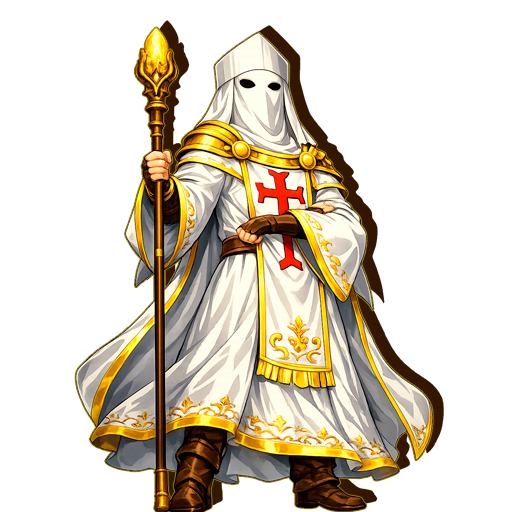
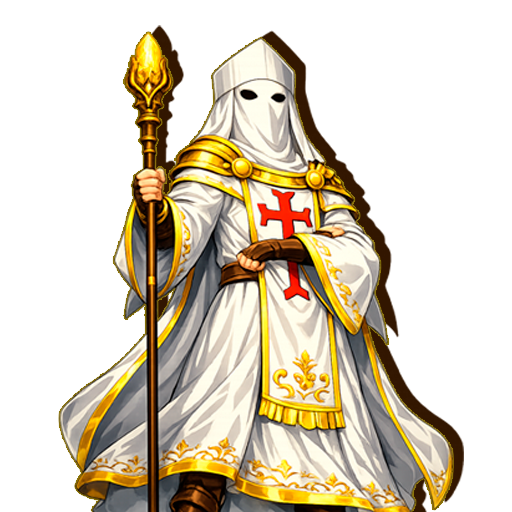
PRIEST ANIMATION!!

diff --git a/hexochess/src/scenes/BattleScene.js b/hexochess/src/scenes/BattleScene.js
@@ -9,6 +9,7 @@ import {
   atlasIdleFrame,
   atlasDeadFrame,
   atlasIdleAttackFrame,
+  atlasPreparedAttackRecoveryFrame,
   atlasSkillFrame,
   atlasWalkFirstFrame,
   atlasWalkFallbackFrame,
@@ -289,6 +290,18 @@ const UNIT_MOVE_VFX_DEFS = [
     repeat: 1,
     depthOffset: 0.18,
   },
+  {
+    key: 'priest_move',
+    unitType: 'Priest',
+    atlasKey: 'priest_move_vfx_atlas',
+    atlasPath: '/assets/units/human/priest/atlas/priest_vfx_move_atlas',
+    animKey: 'priest_move_vfx',
+    firstFrame: 'walk/1.png',
+    frameRegex: /^walk\/\d+\.png$/,
+    frameRate: 10,
+    repeat: 1,
+    depthOffset: 0.18,
+  },
 ];
 
 const UNIT_MOVE_VFX_DEF_BY_TYPE = Object.fromEntries(
@@ -299,8 +312,8 @@ const HEAL_TARGET_VFX_DEF = {
   atlasKey: 'heal_vfx_atlas',
   atlasPath: '/assets/vfx/heal/heal_vfx_atlas',
   animKey: 'heal_target_vfx',
-  firstFrame: 'heal2/HealingQuick2_01.png',
-  frameRegex: /^heal2\/HealingQuick2_\d+\.png$/,
+  firstFrame: 'psd_anim/heal_01.png',
+  frameRegex: /^psd_anim\/heal_\d+\.png$/,
   frameRate: 24,
   depthOffset: 0.2,
 };
@@ -3016,9 +3029,10 @@ export default class BattleScene extends Phaser.Scene {
           const nowMs = Number(this.time?.now ?? 0);
           const hitDelayMs = Math.max(0, Number(ev.preparedAttackHitDelayMs ?? attackerRuntime._preparedAttackHitDelayMs ?? 0));
           const attackHoldMs = Math.max(0, Number(ev.preparedAttackHoldMs ?? attackerRuntime._preparedAttackHoldMs ?? 0));
+          const recoveryDelayMs = Math.max(0, Number(preparedAttackCfg?.recoveryDelayMs ?? 0));
           runtime._preparedAttackCycleUntilMs = nowMs + Math.max(0, Number(ev.preparedAttackIntervalMs ?? attackerRuntime._preparedAttackIntervalMs ?? 0));
           runtime._preparedAttackPoseUntilMs = nowMs + hitDelayMs;
-          runtime._preparedAttackIdleAttack2FromMs = nowMs + hitDelayMs + attackHoldMs;
+          runtime._preparedAttackIdleAttack2FromMs = nowMs + hitDelayMs + attackHoldMs + recoveryDelayMs;
           runtime._preparedAttackIdleAttack2Active = false;
           runtime._preparedAttackFrameUntilMs = 0;
         }
@@ -3134,7 +3148,12 @@ export default class BattleScene extends Phaser.Scene {
     if (ev.type === 'heal') {
       const attacker = byId.get(ev.attackerId);
       const target = byId.get(ev.targetId);
-      if (attacker && getPreparedAttackConfig(attacker.type) && !Boolean(ev.skipPreparedAttackVisual)) {
+      if (
+        attacker &&
+        getPreparedAttackConfig(attacker.type) &&
+        String(attacker.type ?? '') !== 'Priest' &&
+        !Boolean(ev.skipPreparedAttackVisual)
+      ) {
         const vu = this.unitSys?.findUnit?.(attacker.id);
         const attackerRuntime = this.attachUnitRuntime(vu, attacker.id);
         if (vu) {
@@ -4047,11 +4066,15 @@ export default class BattleScene extends Phaser.Scene {
       ? atlasIdleAttackFrame(atlasCfg)
       : (texture?.has?.(atlasIdleFrame(atlasCfg)) ? atlasIdleFrame(atlasCfg) : null);
     const attackFrame = atlasAttackFallbackFrame(atlasCfg);
+    const recoveryFrame = texture?.has?.(atlasPreparedAttackRecoveryFrame(atlasCfg))
+      ? atlasPreparedAttackRecoveryFrame(atlasCfg)
+      : idleAttackFrame;
     if (!idleAttackFrame || !texture?.has?.(attackFrame)) return null;
     return {
       atlasCfg,
       idleAttackFrame,
       attackFrame,
+      recoveryFrame,
       config: preparedCfg,
     };
   }
@@ -4131,7 +4154,7 @@ export default class BattleScene extends Phaser.Scene {
 
       const targetFrame = attackActive
         ? preparedAttackFrames.attackFrame
-        : preparedAttackFrames.idleAttackFrame;
+        : (idleAttack2Active ? preparedAttackFrames.recoveryFrame : preparedAttackFrames.idleAttackFrame);
       runtime._preparedAttackIdleAttack2Active = idleAttack2Active;
       this.applyUnitStaticArtFrame(vu, preparedAttackFrames.atlasCfg.atlasKey, targetFrame);
     }
@@ -5287,6 +5310,8 @@ export default class BattleScene extends Phaser.Scene {
   syncBattleVisualFrame(nowMs) {
     this.syncTimedBattleVisualTransitions?.(nowMs);
     this.refreshPreparedAttackPoseFrames?.(nowMs);
+    const byId = new Map((this.unitSys?.state?.units ?? []).map((vu) => [vu.id, vu]));
+    this.syncVisualUnitAnimationState?.(this.battleState?.phase ?? 'prep', byId);
     this.syncUnitFrameBoundVfxState?.(nowMs);
   }
 
@@ -5349,7 +5374,7 @@ export default class BattleScene extends Phaser.Scene {
         vu._artFacingMirrored = baseMirrored;
         vu.art.setFlipX(baseMirrored);
         if (vu.artOverlay?.active) vu.artOverlay.setFlipX(baseMirrored);
-        if (result) {
+        if ((phase !== 'battle') || result) {
           runtime._skillFrameUntilMs = 0;
           runtime._counterRecoveryUntilMs = 0;
           runtime._damageFrameUntilMs = 0;
@@ -5479,6 +5504,7 @@ export default class BattleScene extends Phaser.Scene {
         !result &&
         (u.zone === 'board') &&
         !u.dead &&
+        !preparedAttackFrameActive &&
         !wantWalk &&
         !wantKnightChargeMove &&
         !wantCast &&
@@ -5502,13 +5528,17 @@ export default class BattleScene extends Phaser.Scene {
       if (wantsPreparedAttackPose) {
         const targetFrame = preparedAttackFrameActive
           ? preparedAttackFrames.attackFrame
-          : preparedAttackFrames.idleAttackFrame;
+          : (preparedAttackIdleAttack2Active ? preparedAttackFrames.recoveryFrame : preparedAttackFrames.idleAttackFrame);
         runtime._staticWalkFrameActive = false;
         runtime._preparedAttackIdleAttack2Active = preparedAttackIdleAttack2Active;
         this.applyUnitStaticArtFrame(vu, preparedAttackFrames.atlasCfg.atlasKey, targetFrame);
         continue;
       }
       const isStaticWalkFrameShown = !!(staticWalkFrame && vu.art?.frame?.name === staticWalkFrame);
+      const isDamageFrameShown = !!(
+        damageFrameInfo &&
+        vu.art?.frame?.name === damageFrameInfo.damageFrame
+      );
       const wantStaticWalkFrame = wantWalk && !wantKnightChargeMove && !wantAttack && !wantCast;
       if (wantStaticWalkFrame && atlasCfgForFrames && vu.art?.active) {
         runtime._staticWalkFrameActive = true;
@@ -5541,7 +5571,15 @@ export default class BattleScene extends Phaser.Scene {
         !forceReplayCast &&
         !forceReplayAttack &&
         vu.art.anims?.getName?.() === animKey &&
-        !(animKey === animDef.idle && (isStaticWalkFrameShown || isPreparedAttackFrameShown || isSkillFrameShown))
+        !(
+          animKey === animDef.idle &&
+          (
+            isStaticWalkFrameShown ||
+            isDamageFrameShown ||
+            isPreparedAttackFrameShown ||
+            isSkillFrameShown
+          )
+        )
       ) continue;
 
       if (this.anims.exists(animKey)) {

diff --git a/hexochess/server/combatSimulator.js b/hexochess/server/combatSimulator.js
@@ -42,6 +42,7 @@ const WORM_SWALLOW_CHANCE = 0.5;
 const WORM_DIGEST_SPEED_MULT = 0.7;
 const MAX_ACTIONS_PER_UNIT_PER_TICK = 8;
 const CROSSBOWMAN_IMPACT_DELAY_MS = 200;
+const PRIEST_HEAL_BEAM_DELAY_MS = 200;
 
 export const SNAPSHOT_STEP_MS = 100;
 
@@ -582,7 +583,9 @@ function performPriestHealIn(simState, healerId, targetId, timeMs) {
   const preparedAttackProjectileLaunchDelayMs = isRanged
     ? Math.max(0, Number(preparedAttackCfg?.projectileLaunchDelayMs ?? 0))
     : 0;
-  const projectileTravelMs = isRanged && projectileSpeed > 0 ? (dist / projectileSpeed) * 1000 : 0;
+  const projectileTravelMs = isRanged
+    ? PRIEST_HEAL_BEAM_DELAY_MS
+    : 0;
 
   return {
     success: true,
@@ -1613,6 +1616,8 @@ export function simulateBattleReplayFromState(sourceState, opts = {}) {
       if (!me || me.dead || me.zone !== 'board') continue;
 
       const isPriestHealer = hasPriestHealPassive(me);
+      const meMaxHp = Math.max(1, Number(me.maxHp ?? me.hp ?? 1));
+      const priestCanRetreat = isPriestHealer && Math.max(0, Number(me.hp ?? meMaxHp)) < meMaxHp;
       const target = isPriestHealer
         ? findBestPriestHealTargetIn(simState, me, tickTimeMs)
         : (
@@ -1620,7 +1625,7 @@ export function simulateBattleReplayFromState(sourceState, opts = {}) {
             ? findBestCrossbowmanTargetIn(simState, me, tickTimeMs)
             : findClosestOpponentIn(simState, me, tickTimeMs)
         );
-      const retreatTarget = isPriestHealer ? findClosestOpponentIn(simState, me, tickTimeMs) : null;
+      const retreatTarget = priestCanRetreat ? findClosestOpponentIn(simState, me, tickTimeMs) : null;
       if (!target && !retreatTarget) continue;
 
       const attackSpeed = Math.max(0.1, Number(me.attackSpeed ?? DEFAULT_UNIT_ATTACK_SPEED));
@@ -1654,7 +1659,7 @@ export function simulateBattleReplayFromState(sourceState, opts = {}) {
               ? findBestCrossbowmanTargetIn(simState, me, tickTimeMs)
               : findClosestOpponentIn(simState, me, tickTimeMs)
           );
-        const liveRetreatTarget = isPriestHealer ? findClosestOpponentIn(simState, me, tickTimeMs) : null;
+        const liveRetreatTarget = priestCanRetreat ? findClosestOpponentIn(simState, me, tickTimeMs) : null;
         if (!liveTarget && !liveRetreatTarget) break;
 
         const mePos = getCombatHexAtIn(simState, me, tickTimeMs);
@@ -1891,10 +1896,11 @@ export function simulateBattleReplayFromState(sourceState, opts = {}) {
             const attackSeq = Number(me.attackSeq ?? 0);
             const preparedAttackHitDelayMs = Math.max(0, Number(res.preparedAttackHitDelayMs ?? 0));
             const preparedAttackHoldMs = Math.max(0, Number(res.preparedAttackHoldMs ?? 0));
+            const preparedAttackRecoveryDelayMs = Math.max(0, Number(getPreparedAttackConfig(me.type)?.recoveryDelayMs ?? 0));
             const preparedAttackProjectileLaunchDelayMs = Math.max(0, Number(res.preparedAttackProjectileLaunchDelayMs ?? 0));
             const usesPreparedAttackTiming = preparedAttackHitDelayMs > 0;
             me.preparedAttackIdleAttack2At = usesPreparedAttackTiming
-              ? tickTimeMs + preparedAttackHitDelayMs + preparedAttackHoldMs
+              ? tickTimeMs + preparedAttackHitDelayMs + preparedAttackHoldMs + preparedAttackRecoveryDelayMs
               : 0;
             if (collectTimeline) {
               events.push({
@@ -1953,7 +1959,7 @@ export function simulateBattleReplayFromState(sourceState, opts = {}) {
                   attackSeq,
                   heal: Number(res.heal ?? 1),
                   healSource: 'projectile',
-                  skipPreparedAttackVisual: preparedAttackProjectileLaunchDelayMs > 0,
+                  skipPreparedAttackVisual: false,
                 });
               } else if (usesPreparedAttackTiming) {
                 pendingHealEvents.push({
@@ -2135,7 +2141,7 @@ export function simulateBattleReplayFromState(sourceState, opts = {}) {
 
         if (tickTimeMs + 1e-6 < me.nextActionAt || tickTimeMs + 1e-6 < me.nextAttackAt || tickTimeMs + 1e-6 < me.nextMoveAt) break;
 
-        const step = (isUndertakerSummoner || (isPriestHealer && !liveTarget))
+        const step = (isUndertakerSummoner || (priestCanRetreat && !liveTarget))
           ? pickBestStepAwayFromClosestEnemyIn(simState, me, tickTimeMs)
           : (
             hasCrossbowmanLineShotPassive(me)

diff --git a/hexochess/src/game/unitAtlasConfig.js b/hexochess/src/game/unitAtlasConfig.js
@@ -28,6 +28,11 @@ export function atlasIdleAttackFrame(def) {
   return atlasFrameName(def, 'idle_attack.png');
 }
 
+export function atlasPreparedAttackRecoveryFrame(def) {
+  const recoveryFrameBaseName = String(def?.preparedAttackRecoveryFrameBaseName ?? 'idle_attack');
+  return atlasFrameName(def, `${recoveryFrameBaseName}.png`);
+}
+
 export function atlasSkillFrame(def) {
   return atlasFrameName(def, 'skill.png');
 }
@@ -98,6 +103,7 @@ export const UNIT_ATLAS_DEFS = [
     attackAnim: 'crossbowman_attack',
     attackFrameBaseName: 'hit',
     deadAnim: 'crossbowman_dead',
+    preparedAttackRecoveryFrameBaseName: 'idle',
     prepareToDieFrameBaseName: 'die0',
     deadFrameBaseName: 'die1',
     framePrefix: 'psd_anim',
@@ -127,11 +133,15 @@ export const UNIT_ATLAS_DEFS = [
   {
     type: 'Priest',
     atlasKey: 'priest_atlas',
-    atlasPath: '/assets/units/human/priest/atlas/priest_atlas',
+    atlasPath: '/assets/units/human/priest/atlas/priest_atlas_new',
     idleAnim: 'priest_idle',
     walkAnim: 'priest_walk',
     attackAnim: 'priest_attack',
+    attackFrameBaseName: 'hit',
     deadAnim: 'priest_dead',
+    preparedAttackRecoveryFrameBaseName: 'idle',
+    prepareToDieFrameBaseName: 'die0',
+    deadFrameBaseName: 'die1',
     framePrefix: 'psd_anim',
   },
   {

diff --git a/hexochess/src/scenes/battleScene/dragController.js b/hexochess/src/scenes/battleScene/dragController.js
@@ -342,6 +342,11 @@ export function installBattleSceneDrag(BattleScene) {
             return;
           }
 
+          core.q = hit.q;
+          core.r = hit.r;
+          core.zone = 'board';
+          core.benchSlot = null;
+          this.renderFromState();
           restoreHoverAfterDrop(pointer, uid, { area: 'board', q: hit.q, r: hit.r });
           this.drawGrid();
           this.dragMainCellOffsetX = 0;
@@ -359,7 +364,9 @@ export function installBattleSceneDrag(BattleScene) {
     setSpriteDraggable(sprite, enabled) {
       if (!sprite || !sprite.active) return;
       this.input.setDraggable(sprite, !!enabled);
-      if (sprite.input) sprite.input.enabled = !!enabled;
+      // Keep pointer input alive even when dragging is disabled:
+      // unit info modal in entry/battle is opened from dragHandle pointerup.
+      if (sprite.input) sprite.input.enabled = true;
     },
 
     tryPickBoard(x, y, opts = {}) {

diff --git a/hexochess/src/scenes/battleScene/debugUi.js b/hexochess/src/scenes/battleScene/debugUi.js
@@ -417,6 +417,10 @@ export function installBattleSceneDebugUi(BattleScene) {
           this.debugUnitsMenuRace = null;
           this.refreshDebugUnitsMenuContent?.();
           this.syncDebugUI?.();
+          this.time?.delayedCall?.(0, () => {
+            this.shopCollapsed = false;
+            this.syncShopUI?.();
+          });
         });
         this.debugUnitTypeButtons.push(btn);
         this.debugUnitsMenu.add(btn);

diff --git a/hexochess/shared/preparedAttackConfig.js b/hexochess/shared/preparedAttackConfig.js
@@ -10,6 +10,13 @@ const PREPARED_ATTACK_CONFIG_BY_TYPE = Object.freeze({
     attackHoldMs: 400,
     projectileLaunchDelayMs: 400,
   }),
+  Priest: Object.freeze({
+    attackIntervalMs: Math.round(1000 / 0.6),
+    hitDelayMs: 400,
+    attackHoldMs: 400,
+    recoveryDelayMs: 200,
+    projectileLaunchDelayMs: 400,
+  }),
 });
 
 export function getPreparedAttackConfig(type) {

diff --git a/hexochess/shared/battleCore.js b/hexochess/shared/battleCore.js
@@ -120,7 +120,7 @@ export function createBattleState() {
     entrySecondsLeft: 0,
     units: [],
     kings: {
-      player: { hp: 100, maxHp: 100, coins: 100, level: 1, xp: 0 },
+      player: { hp: 100, maxHp: 100, coins: 100, level: 3, xp: 0 },
       enemy: { hp: 100, maxHp: 100, coins: 0, visible: false, level: 1, xp: 0 },
     },
     shop: {

diff --git a/hexochess/src/game/unitVisualConfig.js b/hexochess/src/game/unitVisualConfig.js
@@ -162,9 +162,9 @@ export const UNIT_VISUAL_CONFIG_BY_TYPE = {
     artTargetPx: 150,
     artOffsetXPx: 5,
     hpUiLiftPx: 45,
-    footShadowWidthPx: 56,
-    footShadowHeightPx: 16,
-    footShadowOffsetXPx: 0,
+    footShadowWidthPx: 70,
+    footShadowHeightPx: 18,
+    footShadowOffsetXPx: 2,
     footShadowOffsetYPx: 15,
   },
   Skeleton: {

diff --git a/hexochess/server/index.js b/hexochess/server/index.js
@@ -630,7 +630,7 @@ function resetGameToStart() {
   state.loseStreak = 0;
 
   state.kings = {
-    player: { hp: 100, maxHp: 100, coins: 100, level: 1, xp: 0 },
+    player: { hp: 100, maxHp: 100, coins: 100, level: 3, xp: 0 },
     enemy:  {
       hp: 100, maxHp: 100, coins: 0, visible: false, level: 1, xp: 0,
       name: 'bot 1',
